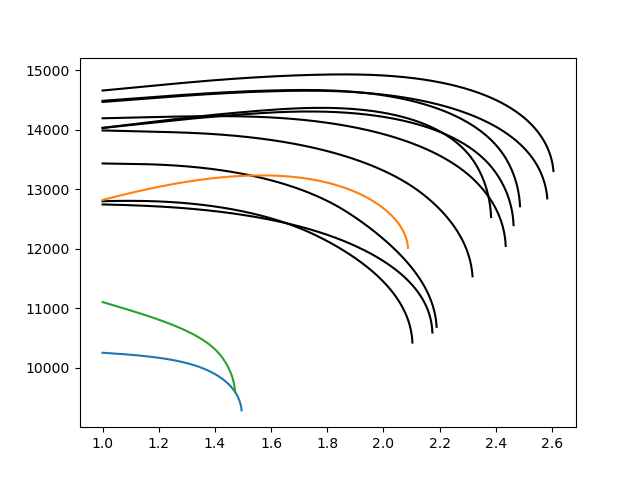
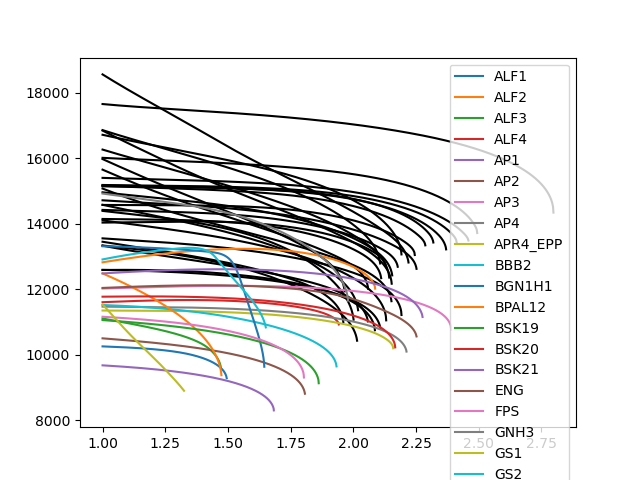
Testing number of curves

diff --git a/ns_eos_dist.py b/ns_eos_dist.py
@@ -260,7 +260,7 @@ def error_barplot(datafile, name):
 #g1 [1.8430-4.4430]
 #g2 [1.3315-3.9315]
 #g3 [1.4315-4.0315]
-def plot_eos_curves(name):
+def plot_eos_curves(name, n_pp, n_n):
     # Plot n random eos piecewise parametrized curves of mass-radii, and n number of names eos mass-radii
     
     pl.clf()
@@ -269,7 +269,6 @@ def plot_eos_curves(name):
     p1_incr, g1_incr, g2_incr, g3_incr = .4575, .927, 1.1595, .9285
     log_p1_SI,g1,g2,g3 = 33.4305,3.143,2.6315,2.7315 
 
-    n_pp = 10
     n_count = 0
     while n_count < n_pp:
         log_p1_SI = ((log_p1_SI - (.25 * p1_incr)) + ((2 * (.25 * p1_incr)) * np.random.random()))
@@ -298,7 +297,6 @@ def plot_eos_curves(name):
         pl.plot(working_masses,working_radii,color="black")
         n_count += 1
 
-    n_n = 3
     n_count = 0
     all_eos = lalsim.SimNeutronStarEOSNames
     while n_count < n_n:
@@ -322,5 +320,6 @@ def plot_eos_curves(name):
         pl.plot(working_masses,working_radii,label=all_eos[n_count])
         n_count +=1
 
+    pl.legend()
     pl.savefig("NICER_mock_data/parameter_space_radii_plots/mass_radii_{}.png".format(name))
 
